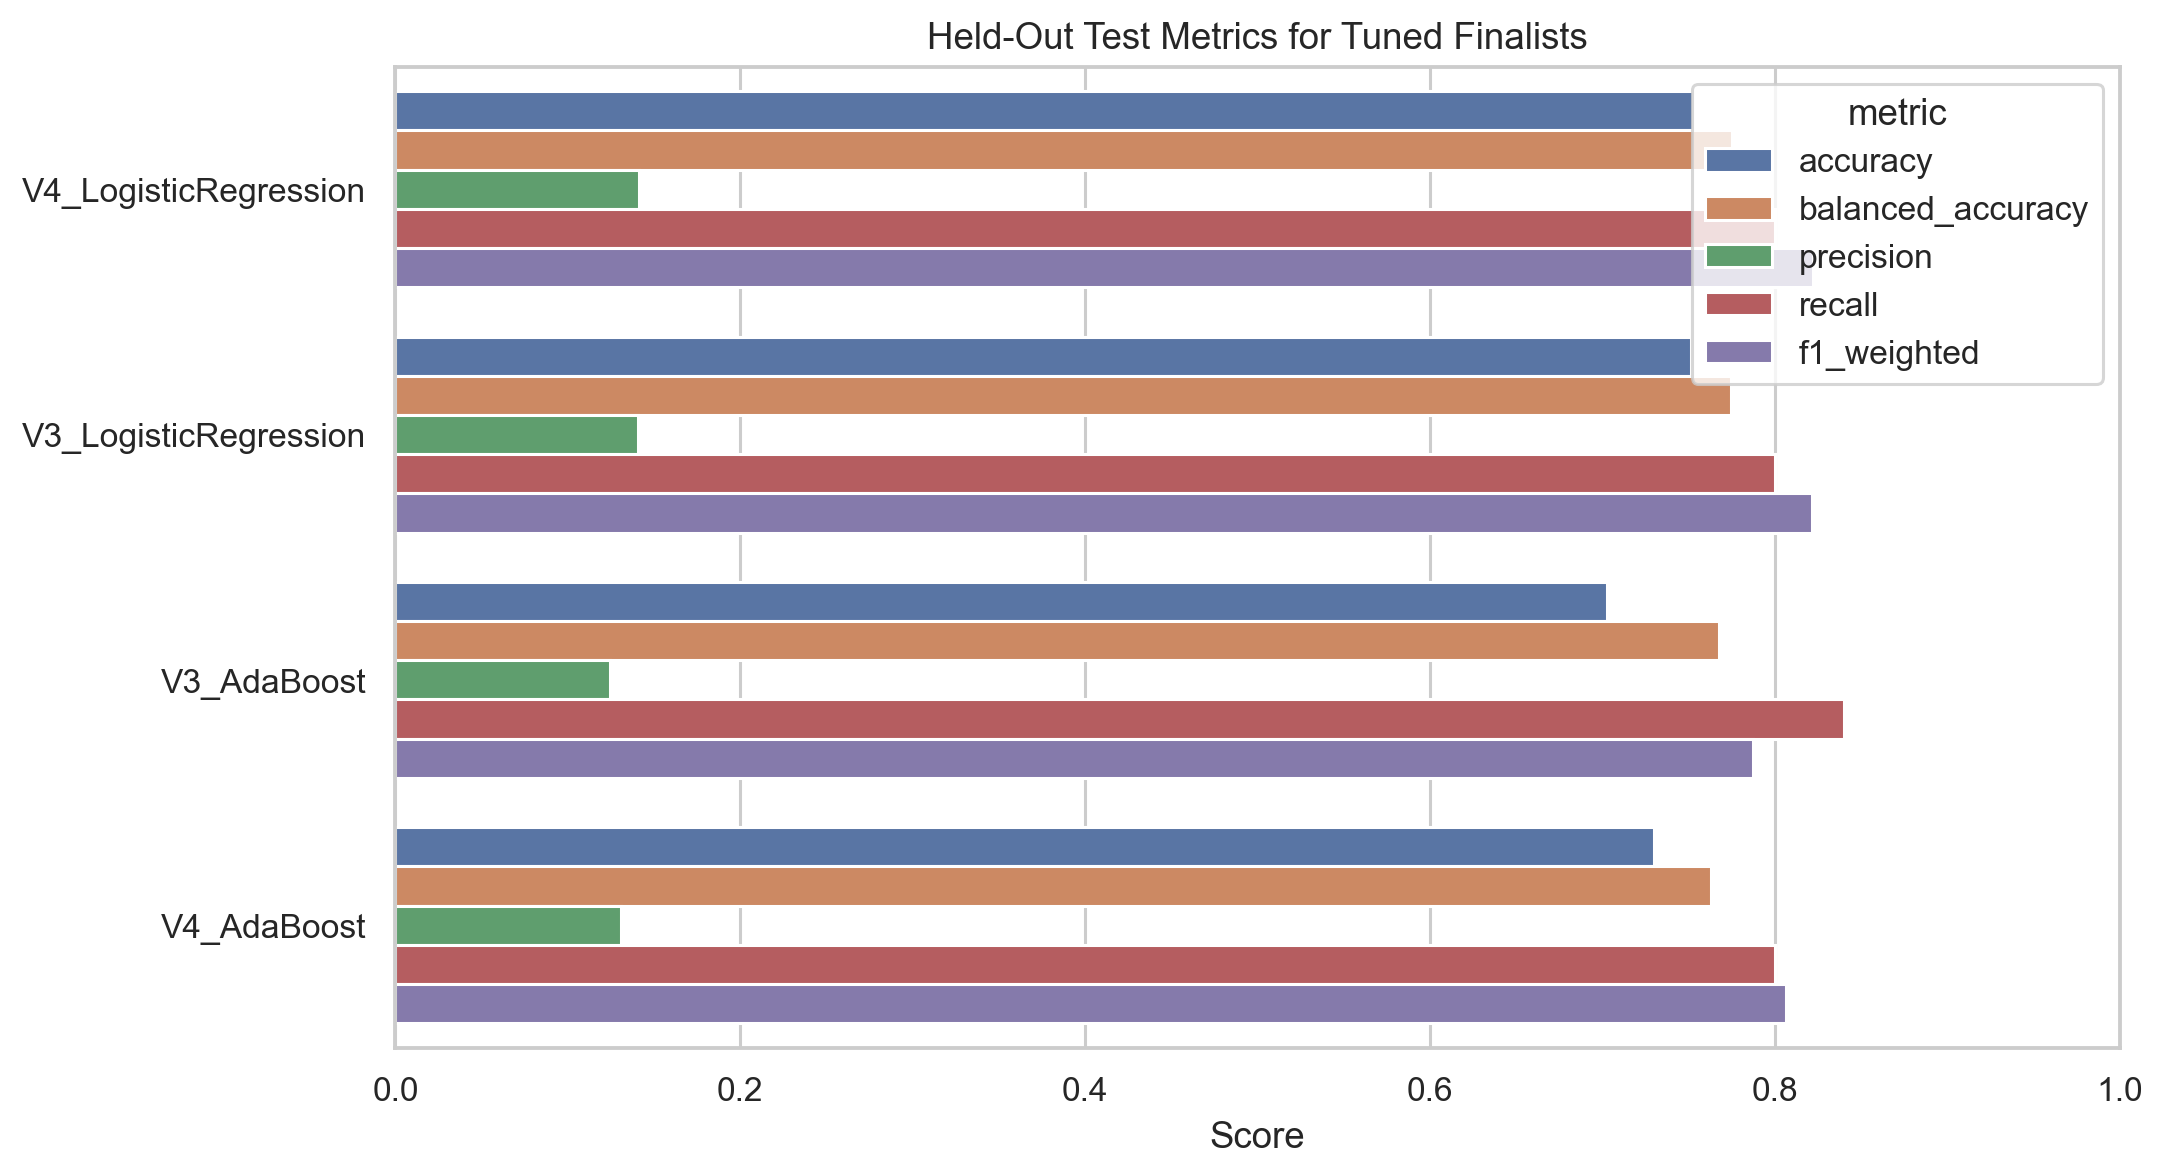
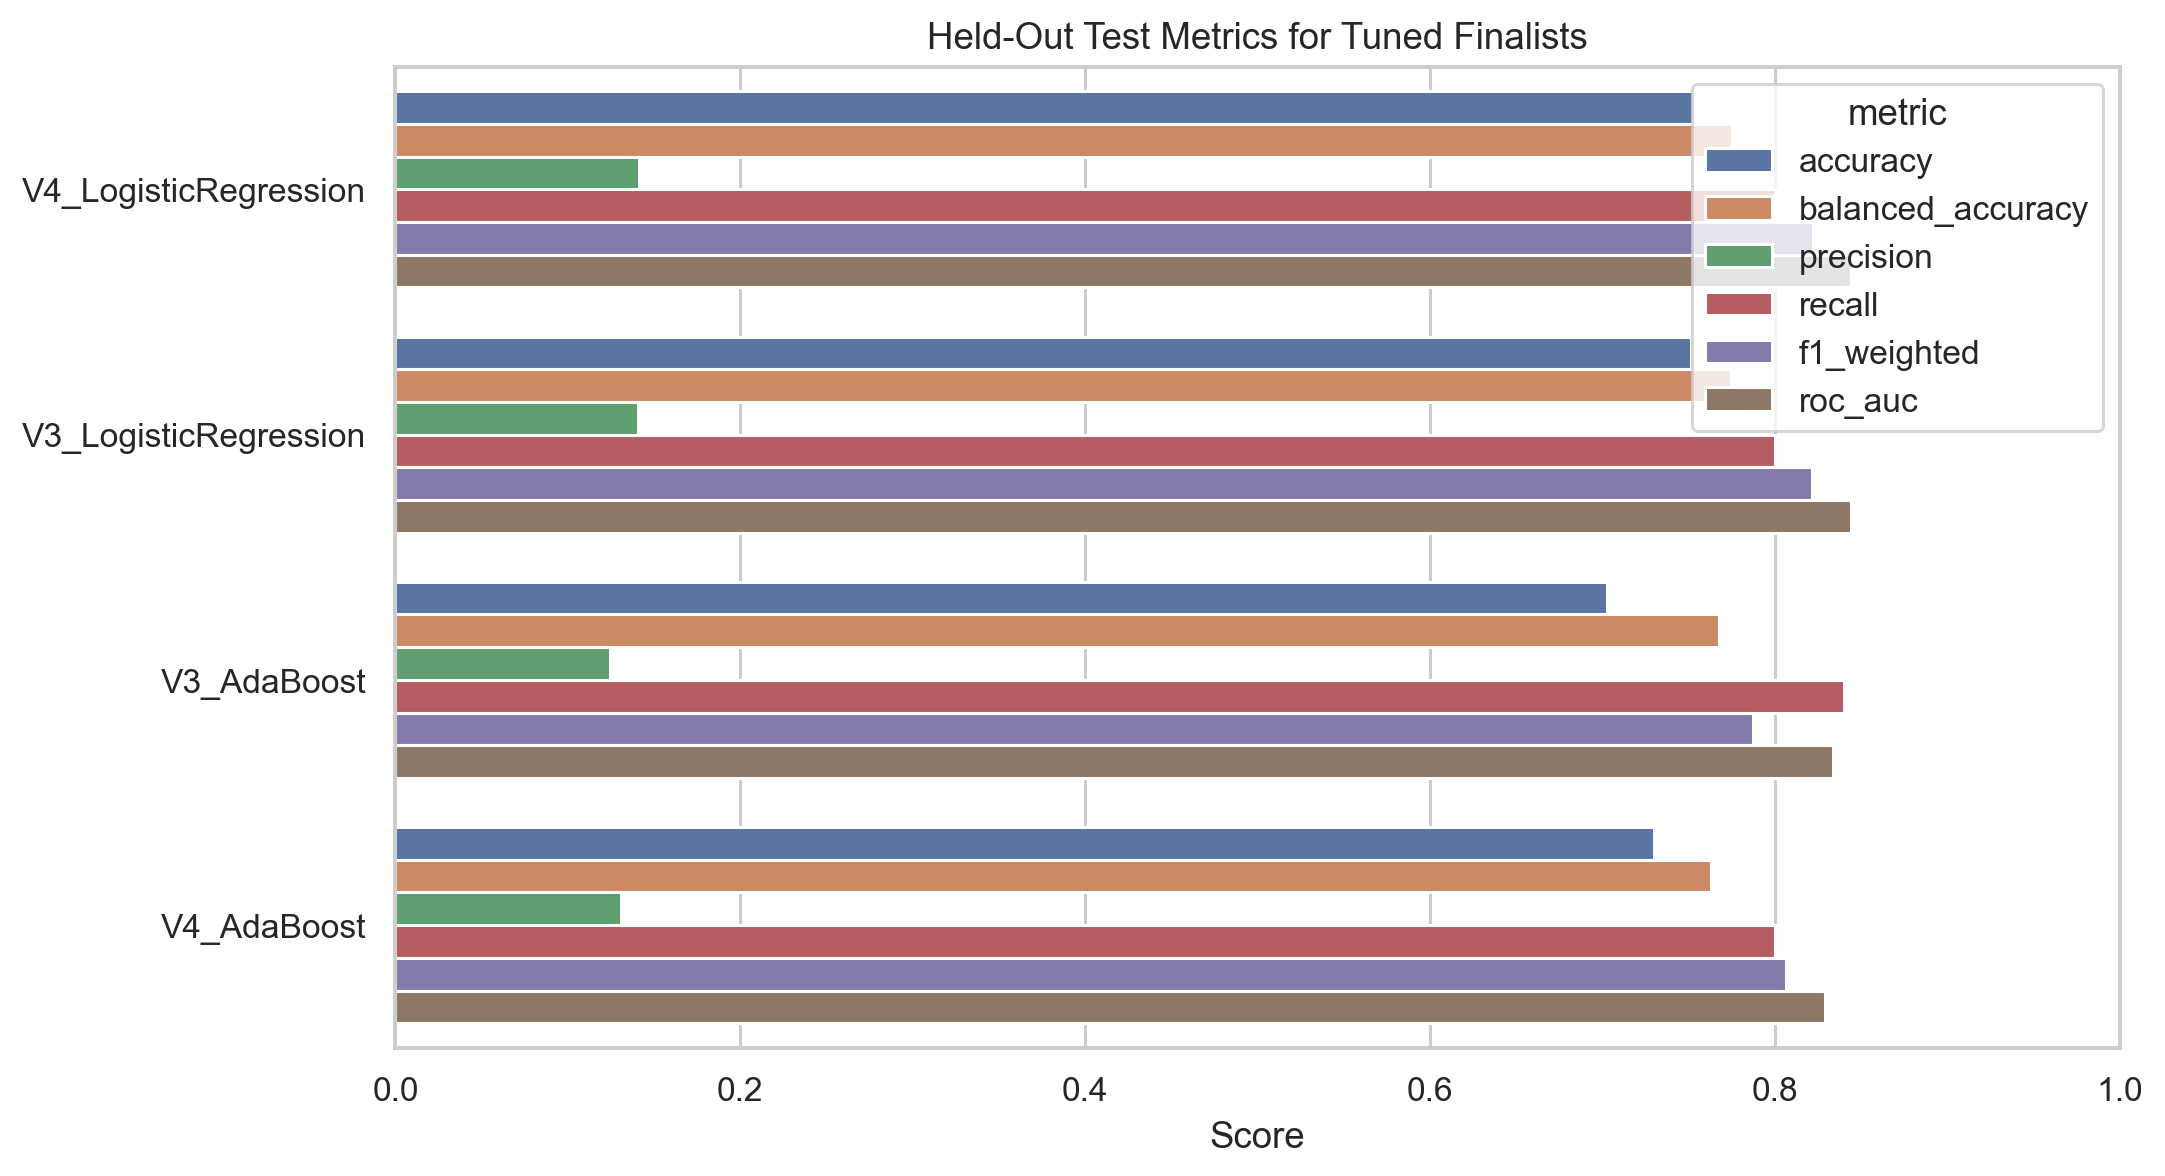
Enhance model evaluation and visualization in Deliverable 3. Added ROC AUC scoring and curves, updated metrics in summaries, and improved heatmap visualizations. Adjusted model parameters for SVM and included new metrics in results tables.

diff --git a/deliverable3/Deliverable3_Experiments.py b/deliverable3/Deliverable3_Experiments.py
@@ -28,6 +28,8 @@ from sklearn.metrics import (
     make_scorer,
     precision_score,
     recall_score,
+    roc_auc_score,
+    roc_curve,
 )
 from sklearn.model_selection import GridSearchCV, StratifiedKFold, cross_validate, train_test_split
 from sklearn.neighbors import KNeighborsClassifier
@@ -168,7 +170,7 @@ def build_candidate_models() -> Dict[str, object]:
         "LogisticRegression": LogisticRegression(max_iter=2000, random_state=RANDOM_STATE),
         "KNN": KNeighborsClassifier(),
         "RandomForest": RandomForestClassifier(random_state=RANDOM_STATE, n_jobs=-1),
-        "SVM": SVC(random_state=RANDOM_STATE),
+        "SVM": SVC(random_state=RANDOM_STATE, probability=True),
         "AdaBoost": AdaBoostClassifier(random_state=RANDOM_STATE),
     }
 
@@ -185,6 +187,7 @@ def get_scorers() -> Dict[str, object]:
         "precision": make_scorer(precision_score, zero_division=0),
         "recall": make_scorer(recall_score, zero_division=0),
         "f1_weighted": make_scorer(f1_score, average="weighted", zero_division=0),
+        "roc_auc": "roc_auc",
     }
 
 
@@ -232,18 +235,19 @@ def initial_experiments(
 
 
 def summarize_initial_results(results_df: pd.DataFrame) -> Tuple[pd.DataFrame, pd.DataFrame]:
+    metric_means = [
+        "accuracy_mean", "balanced_accuracy_mean", "precision_mean",
+        "recall_mean", "f1_weighted_mean", "roc_auc_mean",
+    ]
+
     model_summary = (
-        results_df.groupby("model", as_index=False)[
-            ["accuracy_mean", "balanced_accuracy_mean", "precision_mean", "recall_mean", "f1_weighted_mean"]
-        ]
+        results_df.groupby("model", as_index=False)[metric_means]
         .mean()
         .sort_values(by=["balanced_accuracy_mean", "recall_mean", "f1_weighted_mean"], ascending=False)
     )
 
     version_summary = (
-        results_df.groupby(["dataset_version", "version_description"], as_index=False)[
-            ["accuracy_mean", "balanced_accuracy_mean", "precision_mean", "recall_mean", "f1_weighted_mean"]
-        ]
+        results_df.groupby(["dataset_version", "version_description"], as_index=False)[metric_means]
         .mean()
         .sort_values(by=["balanced_accuracy_mean", "recall_mean", "f1_weighted_mean"], ascending=False)
     )
@@ -261,13 +265,24 @@ def plot_initial_heatmap(results_df: pd.DataFrame) -> None:
     plt.close()
 
 
+def plot_balanced_accuracy_heatmap(results_df: pd.DataFrame) -> None:
+    """Heatmap of CV balanced accuracy — the primary selection criterion."""
+    pivot = results_df.pivot(index="model", columns="dataset_version", values="balanced_accuracy_mean")
+    plt.figure(figsize=(8, 4.8))
+    sns.heatmap(pivot, annot=True, cmap="YlOrRd", fmt=".3f")
+    plt.title("Initial Cross-Validation Balanced Accuracy by Model and Dataset Version")
+    plt.tight_layout()
+    plt.savefig(FIGURES_DIR / "initial_cv_balanced_accuracy_heatmap.png", dpi=220, bbox_inches="tight")
+    plt.close()
+
+
 def plot_metric_bars(results_df: pd.DataFrame) -> None:
-    metric_cols = ["accuracy_mean", "balanced_accuracy_mean", "recall_mean", "f1_weighted_mean"]
+    metric_cols = ["accuracy_mean", "balanced_accuracy_mean", "recall_mean", "f1_weighted_mean", "roc_auc_mean"]
     plot_df = results_df.copy()
     plot_df["combo"] = plot_df["dataset_version"] + " + " + plot_df["model"]
     melted = plot_df[["combo"] + metric_cols].melt(id_vars="combo", var_name="metric", value_name="score")
 
-    plt.figure(figsize=(12, 6))
+    plt.figure(figsize=(12, 9))
     sns.barplot(data=melted, x="score", y="combo", hue="metric", orient="h")
     plt.title("Initial Cross-Validation Metric Comparison")
     plt.xlabel("Score")
@@ -328,16 +343,18 @@ def select_top_candidates(model_summary: pd.DataFrame, version_summary: pd.DataF
 
 def evaluate_on_test(estimator: ImbPipeline, X_test: pd.DataFrame, y_test: pd.Series) -> Dict[str, object]:
     y_pred = estimator.predict(X_test)
+    y_proba = estimator.predict_proba(X_test)[:, 1] if hasattr(estimator, "predict_proba") else None
     tn, fp, fn, tp = confusion_matrix(y_test, y_pred, labels=[0, 1]).ravel()
 
     report = classification_report(y_test, y_pred, output_dict=True, zero_division=0)
-    return {
+    result: Dict[str, object] = {
         "accuracy": accuracy_score(y_test, y_pred),
         "balanced_accuracy": balanced_accuracy_score(y_test, y_pred),
         "precision": precision_score(y_test, y_pred, zero_division=0),
         "recall": recall_score(y_test, y_pred, zero_division=0),
         "f1_weighted": f1_score(y_test, y_pred, average="weighted", zero_division=0),
         "f1_macro": f1_score(y_test, y_pred, average="macro", zero_division=0),
+        "roc_auc": roc_auc_score(y_test, y_proba) if y_proba is not None else float("nan"),
         "tn": int(tn),
         "fp": int(fp),
         "fn": int(fn),
@@ -346,6 +363,7 @@ def evaluate_on_test(estimator: ImbPipeline, X_test: pd.DataFrame, y_test: pd.Se
         "stroke_recall_classification_report": report["1"]["recall"],
         "stroke_f1_classification_report": report["1"]["f1-score"],
     }
+    return result
 
 
 def plot_confusion_matrix(estimator: ImbPipeline, X_test: pd.DataFrame, y_test: pd.Series, combo_name: str) -> None:
@@ -363,6 +381,25 @@ def plot_confusion_matrix(estimator: ImbPipeline, X_test: pd.DataFrame, y_test: 
     plt.close()
 
 
+def plot_roc_curves(finalist_estimators: List[Tuple[object, str]], X_test: pd.DataFrame, y_test: pd.Series) -> None:
+    """Plot ROC curves for all tuned finalist models on a single axes."""
+    plt.figure(figsize=(7, 6))
+    for estimator, label in finalist_estimators:
+        if hasattr(estimator, "predict_proba"):
+            y_proba = estimator.predict_proba(X_test)[:, 1]
+            fpr, tpr, _ = roc_curve(y_test, y_proba)
+            auc = roc_auc_score(y_test, y_proba)
+            plt.plot(fpr, tpr, label=f"{label} (AUC = {auc:.3f})")
+    plt.plot([0, 1], [0, 1], "k--", linewidth=0.8, label="Random classifier")
+    plt.xlabel("False Positive Rate (1 – Specificity)")
+    plt.ylabel("True Positive Rate (Recall / Sensitivity)")
+    plt.title("ROC Curves – Tuned Finalist Models")
+    plt.legend(loc="lower right", fontsize=9)
+    plt.tight_layout()
+    plt.savefig(FIGURES_DIR / "roc_curves_finalists.png", dpi=220, bbox_inches="tight")
+    plt.close()
+
+
 def tune_and_evaluate(
     X_train: pd.DataFrame,
     y_train: pd.Series,
@@ -373,10 +410,11 @@ def tune_and_evaluate(
     selected_models: List[str],
     selected_versions: List[str],
     cv: StratifiedKFold,
-) -> Tuple[pd.DataFrame, Dict[str, str]]:
+) -> Tuple[pd.DataFrame, Dict[str, str], List[Tuple[object, str]]]:
     param_grids = get_param_grids()
     tuning_rows = []
     selected_artifacts: Dict[str, str] = {}
+    finalist_estimators: List[Tuple[object, str]] = []
 
     total_runs = len(selected_models) * len(selected_versions)
     run_idx = 0
@@ -402,19 +440,29 @@ def tune_and_evaluate(
 
             best_idx = grid.best_index_
             metrics = evaluate_on_test(grid.best_estimator_, X_test, y_test)
-            tuning_rows.append(
-                {
-                    "dataset_version": version_name,
-                    "model": model_name,
-                    "combo": combo_name,
-                    "best_cv_balanced_accuracy": grid.best_score_,
-                    "best_cv_recall": grid.cv_results_["mean_test_recall"][best_idx],
-                    "best_cv_precision": grid.cv_results_["mean_test_precision"][best_idx],
-                    "best_cv_weighted_f1": grid.cv_results_["mean_test_f1_weighted"][best_idx],
-                    "best_params": json.dumps(grid.best_params_, sort_keys=True),
-                    **metrics,
-                }
-            )
+
+            row: Dict[str, object] = {
+                "dataset_version": version_name,
+                "model": model_name,
+                "combo": combo_name,
+                "best_cv_balanced_accuracy": grid.best_score_,
+                "best_cv_balanced_accuracy_std": grid.cv_results_["std_test_balanced_accuracy"][best_idx],
+                "best_cv_recall": grid.cv_results_["mean_test_recall"][best_idx],
+                "best_cv_recall_std": grid.cv_results_["std_test_recall"][best_idx],
+                "best_cv_roc_auc": grid.cv_results_["mean_test_roc_auc"][best_idx],
+                "best_cv_precision": grid.cv_results_["mean_test_precision"][best_idx],
+                "best_cv_weighted_f1": grid.cv_results_["mean_test_f1_weighted"][best_idx],
+                "best_params": json.dumps(grid.best_params_, sort_keys=True),
+                **metrics,
+            }
+
+            pca = grid.best_estimator_.named_steps.get("pca")
+            if pca is not None and hasattr(pca, "n_components_"):
+                row["pca_n_components"] = int(pca.n_components_)
+                row["pca_total_variance_retained"] = round(float(pca.explained_variance_ratio_.sum()), 4)
+
+            tuning_rows.append(row)
+            finalist_estimators.append((grid.best_estimator_, combo_name))
 
             model_path = MODELS_DIR / f"{combo_name}.joblib"
             joblib.dump(grid.best_estimator_, model_path)
@@ -425,11 +473,11 @@ def tune_and_evaluate(
         by=["balanced_accuracy", "recall", "f1_macro", "f1_weighted"],
         ascending=False,
     )
-    return tuned_df, selected_artifacts
+    return tuned_df, selected_artifacts, finalist_estimators
 
 
 def plot_tuned_results(tuned_df: pd.DataFrame) -> None:
-    metric_cols = ["accuracy", "balanced_accuracy", "precision", "recall", "f1_weighted"]
+    metric_cols = ["accuracy", "balanced_accuracy", "precision", "recall", "f1_weighted", "roc_auc"]
     plot_df = tuned_df[["combo"] + metric_cols].melt(id_vars="combo", var_name="metric", value_name="score")
 
     plt.figure(figsize=(10, 5.5))
@@ -492,15 +540,34 @@ def main() -> None:
 
     plot_initial_heatmap(results_df)
     plot_metric_bars(results_df)
+    plot_balanced_accuracy_heatmap(results_df)
 
     selected_models, selected_versions = select_top_candidates(model_summary, version_summary)
+
+    # Identify combinations that have high AUC but zero recall — the threshold-collapse pattern
+    # that occurs when a model separates classes well in probability space but always predicts the
+    # majority class at the default 0.5 threshold.  SMOTE (V3/V4) resolves this by rebalancing
+    # the training distribution so the learned boundary shifts toward the minority class.
+    threshold_collapse = results_df[
+        (results_df["recall_mean"] == 0.0) & (results_df["roc_auc_mean"] >= 0.75)
+    ][["dataset_version", "model", "roc_auc_mean", "recall_mean", "balanced_accuracy_mean"]].to_dict(orient="records")
+
     selection_summary = {
         "selected_models": selected_models,
         "selected_versions": selected_versions,
+        "insight_threshold_collapse": {
+            "description": (
+                "These model+version combinations achieve a high CV ROC-AUC (good probabilistic "
+                "ranking) yet recall = 0.0 at the default 0.5 threshold (always predict no-stroke). "
+                "This confirms that SMOTE is necessary to shift the decision boundary toward the "
+                "minority class; AUC alone is insufficient to detect strokes without rebalancing."
+            ),
+            "affected_combinations": threshold_collapse,
+        },
     }
     (TABLES_DIR / "selection_summary.json").write_text(json.dumps(selection_summary, indent=2), encoding="utf-8")
 
-    tuned_df, artifact_paths = tune_and_evaluate(
+    tuned_df, artifact_paths, finalist_estimators = tune_and_evaluate(
         X_train,
         y_train,
         X_test,
@@ -513,16 +580,21 @@ def main() -> None:
     )
     tuned_df.to_csv(TABLES_DIR / "tuned_model_results.csv", index=False)
     plot_tuned_results(tuned_df)
+    plot_roc_curves(finalist_estimators, X_test, y_test)
 
     best_row = tuned_df.iloc[0].to_dict()
+    tp_count = int(best_row["tp"])
+    fn_count = int(best_row["fn"])
+    fp_count = int(best_row["fp"])
+    tn_count = int(best_row["tn"])
     final_summary = {
-        "data_path": str(DATA_PATH),
+        "data_path": str(DATA_PATH.relative_to(ROOT.parent)),
         "random_state": RANDOM_STATE,
         "cv_splits": CV_SPLITS,
         "selected_models": selected_models,
         "selected_versions": selected_versions,
         "best_model_combo": best_row["combo"],
-        "best_model_path": artifact_paths[best_row["combo"]],
+        "best_model_path": str(Path(artifact_paths[best_row["combo"]]).relative_to(ROOT.parent)),
         "best_model_metrics": {
             "accuracy": round(float(best_row["accuracy"]), 4),
             "balanced_accuracy": round(float(best_row["balanced_accuracy"]), 4),
@@ -530,8 +602,39 @@ def main() -> None:
             "recall": round(float(best_row["recall"]), 4),
             "f1_weighted": round(float(best_row["f1_weighted"]), 4),
             "f1_macro": round(float(best_row["f1_macro"]), 4),
+            "roc_auc": round(float(best_row["roc_auc"]), 4),
         },
         "best_model_params": json.loads(best_row["best_params"]),
+        "best_model_interpretation": {
+            "tp": tp_count,
+            "fn": fn_count,
+            "fp": fp_count,
+            "tn": tn_count,
+            "note": (
+                f"Of {tp_count + fn_count} actual stroke cases in the held-out test set, "
+                f"{tp_count} were correctly flagged (TP) and {fn_count} were missed (FN — false negatives). "
+                f"{fp_count} non-stroke patients were incorrectly flagged as high-risk (FP — false positives). "
+                "In a population screening context, minimising false negatives is the primary goal: "
+                "a missed stroke (FN) carries a far higher clinical cost than an unnecessary follow-up (FP)."
+            ),
+        },
+        "design_rationale": {
+            "low_precision_is_expected": (
+                f"Precision of {round(float(best_row['precision']), 3)} is low by design. "
+                f"The model flags {fp_count} false positives alongside {tp_count} true positives "
+                "because it was optimised for recall (sensitivity) rather than precision. "
+                "In a population-level screening tool this is the correct tradeoff: the goal is "
+                "to minimise missed strokes and refer borderline cases for clinical follow-up, "
+                "not to achieve high precision at the cost of undetected events."
+            ),
+            "metric_selection_rationale": (
+                "Balanced accuracy and recall were chosen as primary selection criteria because "
+                "raw accuracy is misleading on this dataset (~95% accuracy is achievable by "
+                "predicting no-stroke for every patient). Balanced accuracy penalises both "
+                "false negatives and false positives equally, while recall directly measures "
+                "the fraction of actual stroke cases detected — the clinically critical quantity."
+            ),
+        },
     }
     (TABLES_DIR / "final_summary.json").write_text(json.dumps(final_summary, indent=2), encoding="utf-8")
 
